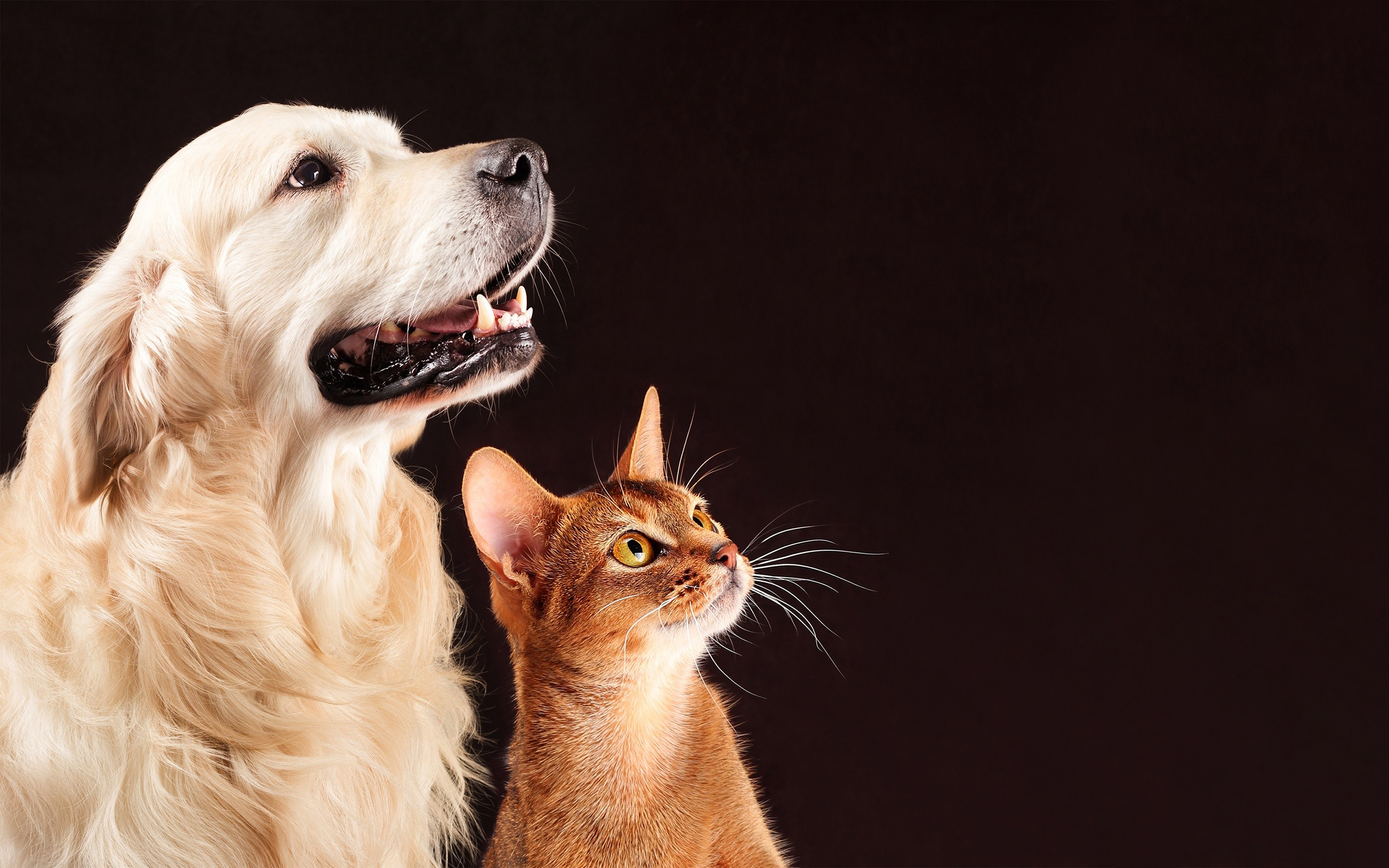
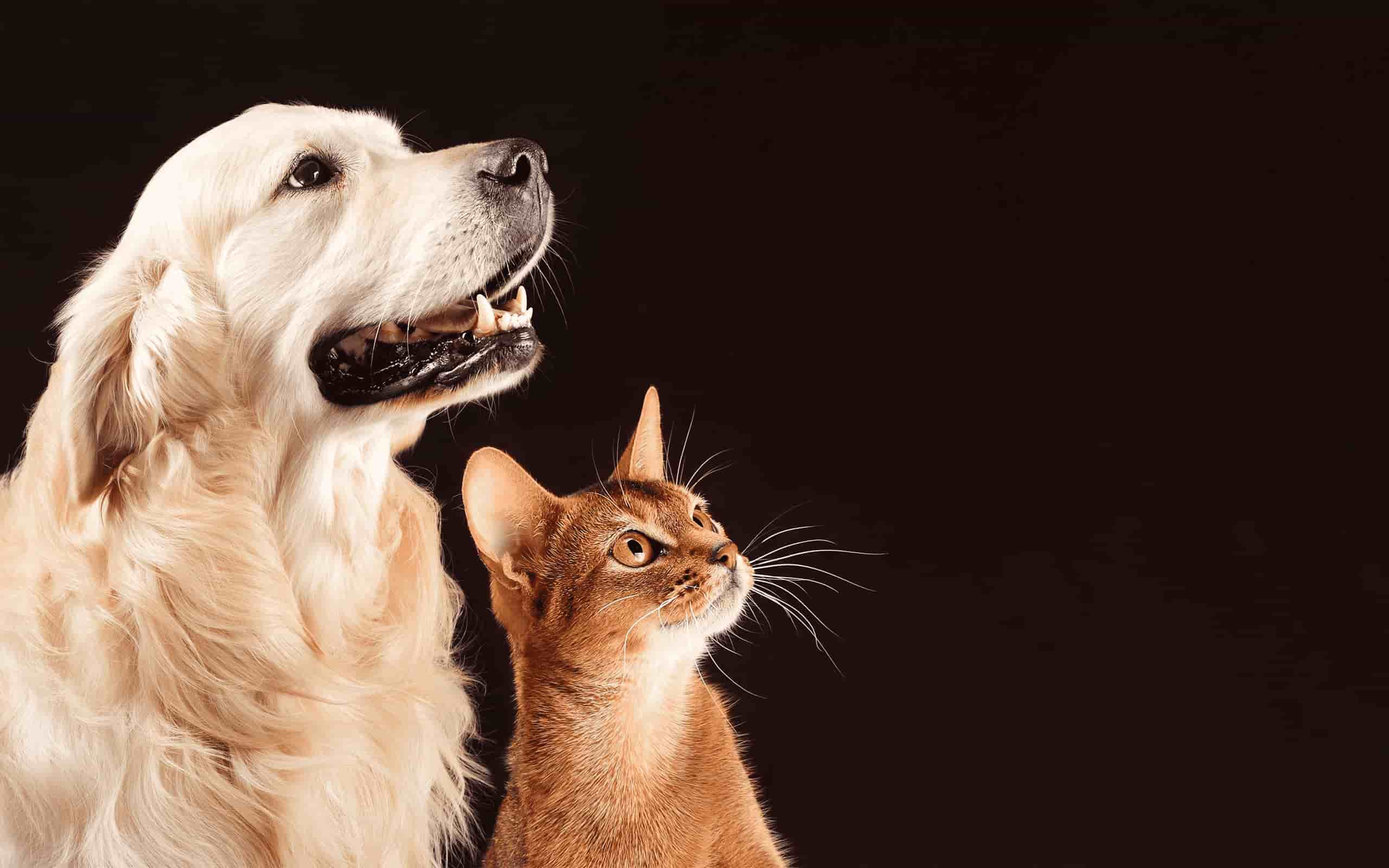
Compress images

diff --git a/packages/front/public/index.html b/packages/front/public/index.html
@@ -7,7 +7,7 @@
     <meta name="theme-color" content="#000000" />
     <meta
       name="description"
-      content="Web site created using create-react-app"
+      content="Petsos - a Pet Society clone"
     />
     <link rel="apple-touch-icon" href="%PUBLIC_URL%/logo192.png" />
     <!--
@@ -24,7 +24,7 @@
       work correctly both with client-side routing and a non-root public URL.
       Learn how to configure a non-root public URL by running `npm run build`.
     -->
-    <title>React App</title>
+    <title>Petsos</title>
   </head>
   <body>
     <noscript>You need to enable JavaScript to run this app.</noscript>

diff --git a/packages/front/src/components/MyPets/MyPets.jsx b/packages/front/src/components/MyPets/MyPets.jsx
@@ -1,7 +1,7 @@
 import React, { useState, useEffect } from 'react';
 import { useHistory, useParams } from 'react-router';
 import './addPet.css';
-import header from '../../resources/dogs-cats-header.png';
+import header from '../../resources/dogs-cats-header.jpg';
 import { client as fetch } from '../../utils/client';
 import { useUser } from '../../context/auth-context';
 import { getAllPetCategories } from '../../utils/fetchutils';
